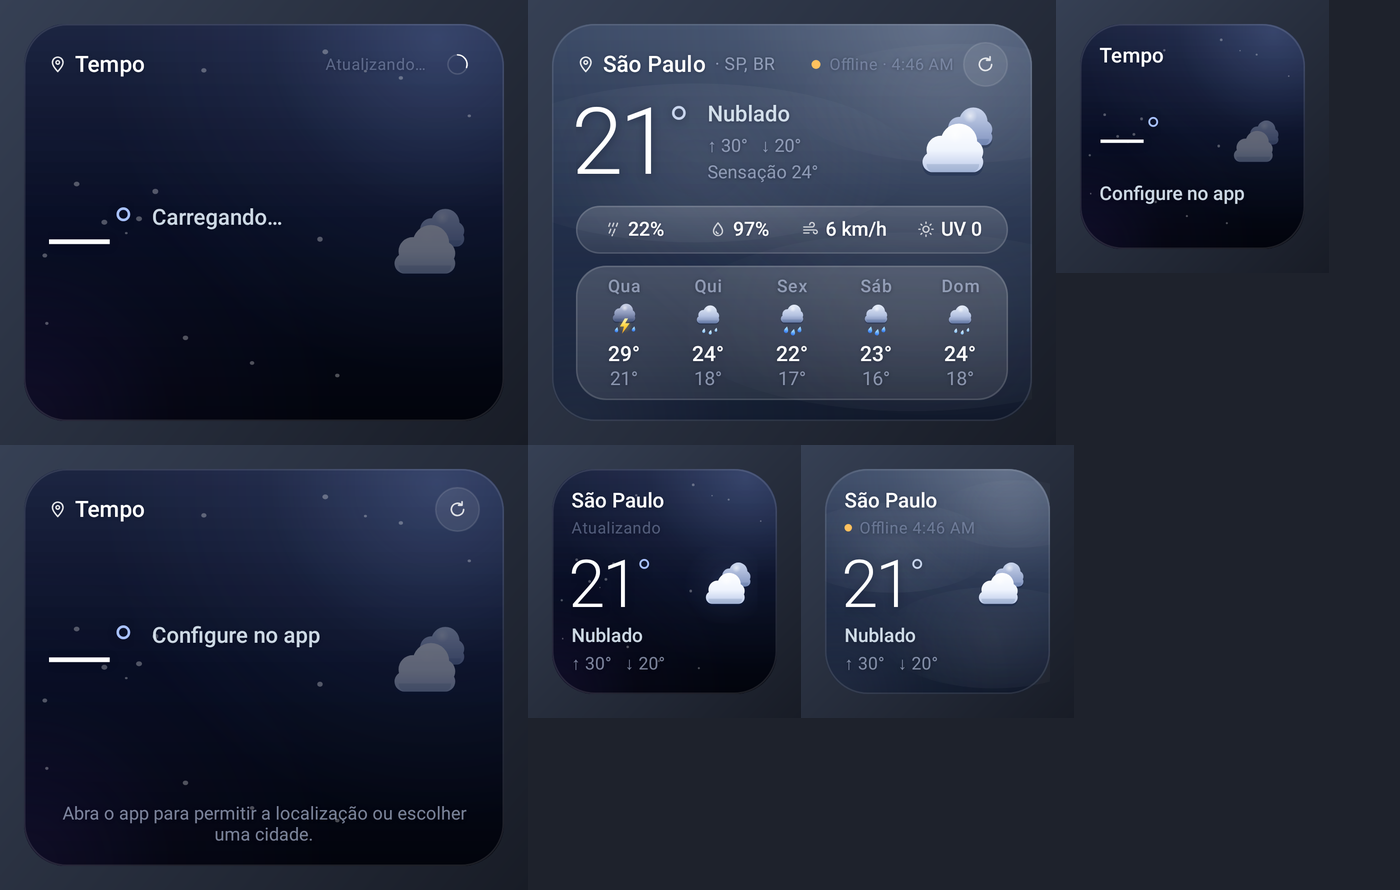
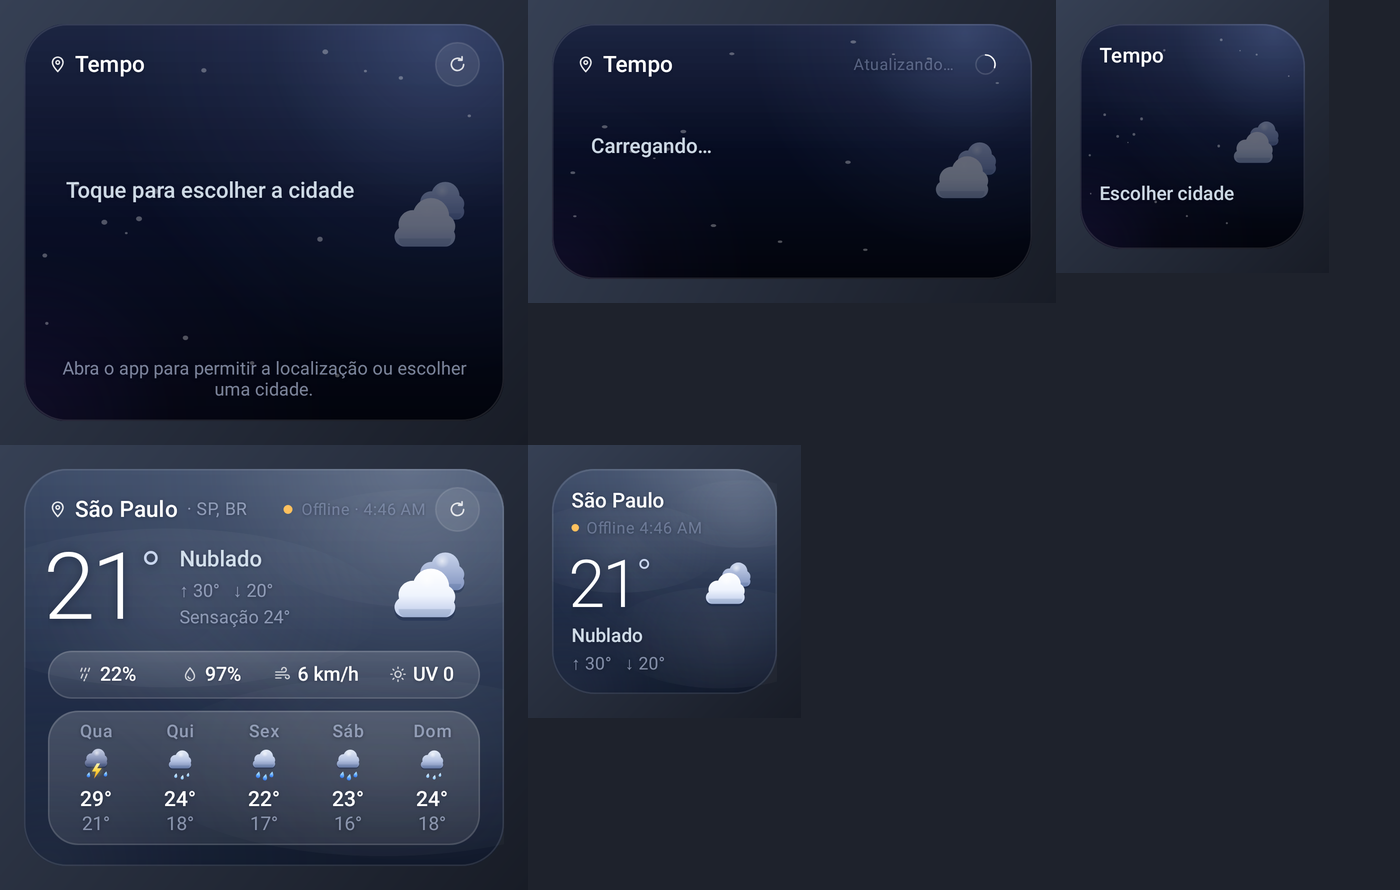
Corrige localização que nunca era obtida e o estado vazio do widget
- Tenta rede, fused e GPS em sequência (antes só o primeiro provedor,
  que em aparelhos como Xiaomi/HyperOS nunca entrega posição) e usa
  LocationManagerCompat para funcionar também abaixo do Android 11
- Obtém a posição com o app visível antes de disparar a atualização
- Mensagens específicas: localização do aparelho desligada x sem sinal,
  com atalho para ativar e busca de cidade no topo quando não há dados
- Widget sem dados não exibe mais placeholder de temperatura

Claude-Session: https://claude.ai/code/session_01W2PtX1KNnVKciqynqcyRmn

diff --git a/app/src/main/java/app/tempo/weather/ui/MainActivity.kt b/app/src/main/java/app/tempo/weather/ui/MainActivity.kt
@@ -13,6 +13,7 @@ import androidx.activity.ComponentActivity
 import androidx.activity.compose.rememberLauncherForActivityResult
 import androidx.activity.compose.setContent
 import androidx.activity.enableEdgeToEdge
+import androidx.lifecycle.lifecycleScope
 import androidx.activity.result.contract.ActivityResultContracts
 import androidx.compose.animation.AnimatedVisibility
 import androidx.compose.animation.animateContentSize
@@ -119,11 +120,26 @@ class MainActivity : ComponentActivity() {
         val store = WeatherStore(this)
         val age = store.snapshot?.let { System.currentTimeMillis() - it.fetchedAt } ?: Long.MAX_VALUE
         if (age > 15 * 60_000L && !store.isRefreshing()) {
-            store.refreshingSince = System.currentTimeMillis()
-            WeatherWidgetProvider.renderAll(this)
-            UpdateScheduler.refreshNow(this)
+            lifecycleScope.launch { refreshWithForegroundLocation(this@MainActivity) }
         }
     }
+}
+
+/**
+ * Obtém a posição enquanto o app está visível (sem restrições de segundo plano) e só então
+ * dispara a atualização. O worker reaproveita essa posição recente.
+ */
+suspend fun refreshWithForegroundLocation(context: android.content.Context) {
+    val store = WeatherStore(context)
+    store.refreshingSince = System.currentTimeMillis()
+    WeatherWidgetProvider.renderAll(context)
+    val locator = DeviceLocator(context)
+    if (store.locationMode == LocationMode.AUTO && locator.hasPermission()) {
+        runCatching {
+            locator.locate()?.let { store.lastAutoPlace = locator.describe(it, store.lastAutoPlace) }
+        }
+    }
+    UpdateScheduler.refreshNow(context)
 }
 
 @Composable
@@ -142,9 +158,7 @@ private fun SettingsScreen(isConfiguring: Boolean, onDone: () -> Unit) {
     }
 
     fun refresh() {
-        store.refreshingSince = System.currentTimeMillis()
-        WeatherWidgetProvider.renderAll(context)
-        UpdateScheduler.refreshNow(context)
+        scope.launch { refreshWithForegroundLocation(context) }
     }
 
     var hasPermission by remember { mutableStateOf(locator.hasPermission()) }
@@ -198,6 +212,19 @@ private fun SettingsScreen(isConfiguring: Boolean, onDone: () -> Unit) {
                             else -> "Escolha a localização abaixo"
                         }
                         Text(sub, color = Ink3, fontSize = 12.5.sp, modifier = Modifier.padding(top = 2.dp))
+                        if (error != null && hasPermission && !locator.isLocationEnabled()) {
+                            Text(
+                                "Ativar localização do aparelho",
+                                color = Accent, fontSize = 13.sp, fontWeight = FontWeight.Medium,
+                                modifier = Modifier
+                                    .padding(top = 10.dp)
+                                    .clickable {
+                                        context.startActivity(
+                                            Intent(Settings.ACTION_LOCATION_SOURCE_SETTINGS).addFlags(Intent.FLAG_ACTIVITY_NEW_TASK),
+                                        )
+                                    },
+                            )
+                        }
                     }
                     if (refreshing) {
                         CircularProgressIndicator(Modifier.size(22.dp), color = Accent, strokeWidth = 2.dp)
@@ -211,9 +238,23 @@ private fun SettingsScreen(isConfiguring: Boolean, onDone: () -> Unit) {
                 }
             }
 
+            val mode = remember(version) { store.locationMode }
+            val citySearch: @Composable () -> Unit = {
+                CitySearch(
+                    selected = remember(version) { store.manualPlace?.let { listOf(it.name, it.region).filter(String::isNotBlank).joinToString(" · ") } },
+                    manualActive = mode == LocationMode.MANUAL || !hasPermission,
+                    onPick = { city ->
+                        store.manualPlace = city.toPlace()
+                        store.locationMode = LocationMode.MANUAL
+                        refresh()
+                    },
+                )
+            }
+            // Sem nenhum dado ainda: a busca de cidade vem primeiro, é o caminho mais rápido.
+            if (snap == null) citySearch()
+
             // ----- Localização -----
             SectionTitle("Localização")
-            val mode = remember(version) { store.locationMode }
             GlassCard {
                 ToggleRow(
                     title = "Usar minha localização",
@@ -253,15 +294,7 @@ private fun SettingsScreen(isConfiguring: Boolean, onDone: () -> Unit) {
                 }
             }
 
-            CitySearch(
-                selected = remember(version) { store.manualPlace?.let { listOf(it.name, it.region).filter(String::isNotBlank).joinToString(" · ") } },
-                manualActive = mode == LocationMode.MANUAL || !hasPermission,
-                onPick = { city ->
-                    store.manualPlace = city.toPlace()
-                    store.locationMode = LocationMode.MANUAL
-                    refresh()
-                },
-            )
+            if (snap != null) citySearch()
 
             // ----- Preferências -----
             SectionTitle("Atualização automática")

diff --git a/app/src/main/java/app/tempo/weather/location/DeviceLocator.kt b/app/src/main/java/app/tempo/weather/location/DeviceLocator.kt
@@ -11,6 +11,7 @@ import android.location.LocationManager
 import android.os.Build
 import android.os.CancellationSignal
 import androidx.core.content.ContextCompat
+import androidx.core.location.LocationManagerCompat
 import app.tempo.weather.data.Place
 import kotlinx.coroutines.Dispatchers
 import kotlinx.coroutines.suspendCancellableCoroutine
@@ -36,50 +37,55 @@ class DeviceLocator(private val context: Context) {
     private fun granted(p: String) =
         ContextCompat.checkSelfPermission(context, p) == PackageManager.PERMISSION_GRANTED
 
-    /** Retorna uma posição recente, ou null se não houver permissão/sinal. */
+    /** Localização do aparelho ligada nas configurações rápidas. */
+    fun isLocationEnabled(): Boolean = runCatching { LocationManagerCompat.isLocationEnabled(lm) }.getOrDefault(true)
+
+    /**
+     * Retorna uma posição recente, ou null se não houver permissão/sinal.
+     * Tenta todos os provedores disponíveis em sequência: em vários aparelhos (ex.: Xiaomi/HyperOS
+     * sem serviços do Google) o provedor "fused" existe mas nunca entrega posição.
+     */
     @SuppressLint("MissingPermission")
     suspend fun locate(maxAgeMs: Long = 30 * 60_000L): Location? {
         if (!hasPermission()) return null
-        return try {
-            val last = lastKnown()
-            if (last != null && System.currentTimeMillis() - last.time <= maxAgeMs) return last
-            fresh() ?: last
-        } catch (_: SecurityException) {
-            null
+        val last = lastKnown()
+        if (last != null && System.currentTimeMillis() - last.time <= maxAgeMs) return last
+        for (provider in liveProviders()) {
+            val loc = current(provider)
+            if (loc != null) return loc
         }
+        // Sem posição nova: uma posição antiga ainda indica a cidade corretamente na maioria dos casos.
+        return last
     }
 
     @SuppressLint("MissingPermission")
-    private fun lastKnown(): Location? = providers().mapNotNull {
+    private fun lastKnown(): Location? = allProviders().mapNotNull {
         runCatching { lm.getLastKnownLocation(it) }.getOrNull()
     }.maxByOrNull { it.time }
 
     @SuppressLint("MissingPermission")
-    private suspend fun fresh(): Location? {
-        if (Build.VERSION.SDK_INT < Build.VERSION_CODES.R) return null
-        val provider = providers().firstOrNull { runCatching { lm.isProviderEnabled(it) }.getOrDefault(false) }
-            ?: return null
-        return withTimeoutOrNull(12_000L) {
-            suspendCancellableCoroutine { cont ->
-                val signal = CancellationSignal()
-                cont.invokeOnCancellation { signal.cancel() }
-                try {
-                    lm.getCurrentLocation(provider, signal, ContextCompat.getMainExecutor(context)) { loc ->
-                        if (cont.isActive) cont.resume(loc)
-                    }
-                } catch (e: Exception) {
-                    if (cont.isActive) cont.resume(null)
+    private suspend fun current(provider: String): Location? = withTimeoutOrNull(10_000L) {
+        suspendCancellableCoroutine { cont ->
+            val signal = CancellationSignal()
+            cont.invokeOnCancellation { signal.cancel() }
+            try {
+                LocationManagerCompat.getCurrentLocation(lm, provider, signal, ContextCompat.getMainExecutor(context)) { loc ->
+                    if (cont.isActive) cont.resume(loc)
                 }
+            } catch (_: Exception) {
+                if (cont.isActive) cont.resume(null)
             }
         }
     }
 
-    private fun providers(): List<String> = buildList {
-        if (Build.VERSION.SDK_INT >= Build.VERSION_CODES.S) add(LocationManager.FUSED_PROVIDER)
+    /** Provedores ativos, do mais rápido/econômico ao mais lento. */
+    private fun liveProviders(): List<String> = buildList {
         add(LocationManager.NETWORK_PROVIDER)
-        if (granted(Manifest.permission.ACCESS_FINE_LOCATION)) add(LocationManager.GPS_PROVIDER)
-        add(LocationManager.PASSIVE_PROVIDER)
-    }.filter { runCatching { lm.allProviders.contains(it) }.getOrDefault(false) }
+        if (Build.VERSION.SDK_INT >= Build.VERSION_CODES.S) add(LocationManager.FUSED_PROVIDER)
+        add(LocationManager.GPS_PROVIDER)
+    }.filter { p -> p in allProviders() && runCatching { lm.isProviderEnabled(p) }.getOrDefault(false) }
+
+    private fun allProviders(): List<String> = runCatching { lm.allProviders }.getOrDefault(emptyList())
 
     /**
      * Converte coordenadas em nome de cidade com o Geocoder do sistema.

diff --git a/app/src/main/java/app/tempo/weather/widget/WidgetRenderer.kt b/app/src/main/java/app/tempo/weather/widget/WidgetRenderer.kt
@@ -174,6 +174,7 @@ object WidgetRenderer {
         rv.setTextViewText(R.id.city, snap.place.name)
         rv.setTextViewText(R.id.region, snap.place.region.takeIf { it.isNotBlank() }?.let { "· $it" } ?: "")
 
+        rv.setViewVisibility(R.id.temp_box, View.VISIBLE)
         state.temp.apply(rv, R.id.temp_a, R.id.temp_b) { id, value ->
             rv.setTextViewText(id, tempSpan(value, atmosphere.accent))
         }
@@ -246,17 +247,16 @@ object WidgetRenderer {
     private fun renderEmpty(context: Context, rv: RemoteViews, size: WidgetSize, model: RenderModel, state: CrossfadeState) {
         rv.setTextViewText(R.id.city, model.pendingPlaceName ?: context.getString(R.string.app_name))
         rv.setTextViewText(R.id.region, "")
-        state.temp.apply(rv, R.id.temp_a, R.id.temp_b) { id, _ ->
-            rv.setTextViewText(id, tempSpan("\u2014", Atmosphere.NIGHT.accent))
-        }
+        // Sem dados não há temperatura: nada de placeholder que pareça um número.
+        rv.setViewVisibility(R.id.temp_box, View.GONE)
         state.icon.apply(rv, R.id.icon_a, R.id.icon_b) { id, value ->
             rv.setImageViewResource(id, iconFromKey(value))
             rv.setInt(id, "setImageAlpha", 90)
         }
         val message = when {
             model.refreshing -> "Carregando…"
-            model.lastError != null -> "Sem dados"
-            else -> "Configure no app"
+            size == WidgetSize.COMPACT -> "Escolher cidade"
+            else -> "Toque para escolher a cidade"
         }
         rv.setTextViewText(R.id.condition, message)
         rv.setTextViewText(R.id.hilo, "")

diff --git a/app/src/main/java/app/tempo/weather/data/WeatherRepository.kt b/app/src/main/java/app/tempo/weather/data/WeatherRepository.kt
@@ -44,7 +44,8 @@ class WeatherRepository(private val context: Context) {
             val msg = when {
                 store.locationMode == LocationMode.MANUAL -> "Escolha uma cidade"
                 !locator.hasPermission() -> "Permita a localização ou escolha uma cidade"
-                else -> "Localização indisponível"
+                !locator.isLocationEnabled() -> "Ative a localização do aparelho ou escolha uma cidade"
+                else -> "Não foi possível obter sua posição. Escolha uma cidade"
             }
             store.lastError = msg
             return@withContext RefreshResult.Failure(msg, recoverable = false)
